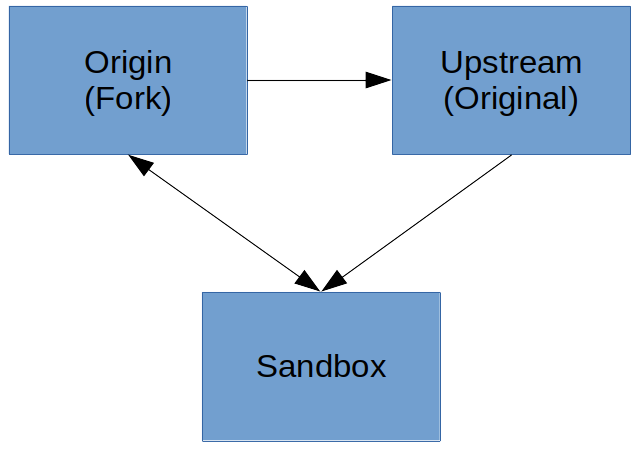
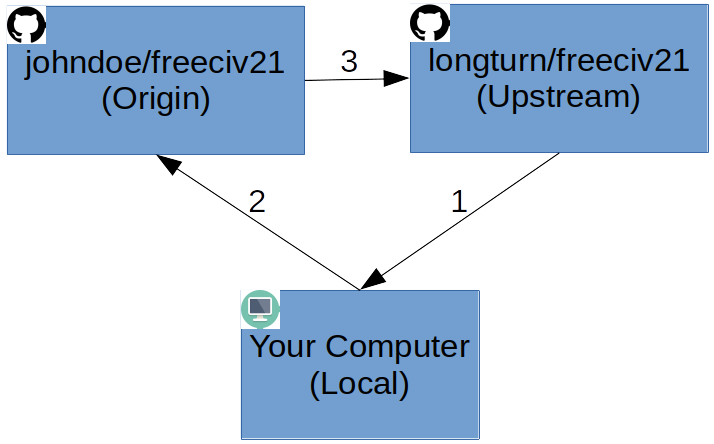
Fixes to docs based on feedback

diff --git a/docs/Contributing/pull-request.rst b/docs/Contributing/pull-request.rst
@@ -5,7 +5,7 @@ A Pull Request (PR), also commonly known as a Merge Request, is a mechanism to "
 into another one and merge the change into the source repository.
 
 Before we go much further, let's take a few minutes to describe what happened when you :doc:`dev-env` and to
-define a few terms that will help with futher instructions. Starting with a diagram of the setup of the three
+define a few terms that will help with further instructions. Starting with a diagram of the setup of the three
 locations where code resides:
 
 .. image:: ../_static/images/github_repos.png
@@ -16,42 +16,39 @@ locations where code resides:
 As part of the :doc:`../General/install` process, one of the programs installed is :file:`git`. This program
 is used to interact with the varying places that code can reside. The :file:`git` program has a relatively
 standard way of referring to things that are in the diagram. If you have not worked with :file:`git` much,
-you can read the `documentation <https://git-scm.com/docs>`_.
+it is highly recommended you read the first three chapters of the
+`Pro Git Book <https://git-scm.com/book/en/v2>`_ before continuing.
 
 * :strong:`Upstream`: This refers to the source (original) repository. For us this is the Longturn Freeciv21
   or Games repositories.
 * :strong:`Origin`: This refers to the fork you made in your own personal GitHub account.
-* :strong:`Sandbox`: This isn't a :file:`git` term per se, but is a well understood industry standard way of
-  referring to the copy of code on a person's local computer. This is where the changes are made and eventually
+* :strong:`Local`: This isn't a :file:`git` term per se, but is a well understood industry standard way of
+  referring to the copy of code on a person's computer. This is where the changes are made and eventually
   make it back up to origin and over to upstream via a Pull Request.
 
-The arrows represent the path that updates (e.g. changes) of files and code occurs.
+The arrows represent the path that updates (e.g. changes) of files occurs.
 
-* File updates from `Upstream` only come "down" to the local `Sandbox` unidirectionally.
-* File updates from `Origin` to `Upstream` only happen from `Origin` to `Upstream`, unidirectionally.
-* File updates from the local `Sandbox` to `Origin` can occur bi-directionally. However, the most common way is
-  "up" from the `Sandbox` to `Origin`.
+1. File updates from `Upstream` are downloaded (pulled) to `Local`.
+2. After changes are made, file updates from `Local` are uploaded (pushed) to `Origin`.
+3. File updates from `Origin` are transferred to `Upstream` laterally via a Pull Request.
 
-What typically happens in a development cycle looks something like this: Upstream -> Sandbox -> Origin ->
-Upstream. With this in mind, submitting a Pull Request generally entails these steps:
+With this in mind, submitting a Pull Request generally entails these steps:
 
-#. Update the Sandbox with the lastest updates/changes from Upstream.
-#. Ensure Origin is also up to date with Upstream.
-#. Create a local branch from Upstream.
-#. Edit files as needed in the Sandbox and local branch.
+#. Update Local with the lastest from Upstream.
+#. Create a branch from Upstream.
+#. Edit files as needed in Local.
 #. Push the changes in a commit to Origin.
 #. Requesting a Pull Request from Origin to Upstream.
 
 
-1. Update The Sandbox With The Lastest Updates/Changes From Upstream
-====================================================================
+1. Update Local With The Lastest Updates From Upstream
+======================================================
 
-Assuming you are in the local Sandbox, issue these commands to get the latest code from Upstream:
+Assuming you are in the appropriate Local directory, issue these commands to get the latest code from Upstream:
 
 .. code-block:: rst
 
   ~/GitHub/freeciv21$ git checkout master
-  ~/GitHub/freeciv21$ git fetch upstream master
   ~/GitHub/freeciv21$ git pull upstream master --ff-only
 
 
@@ -61,22 +58,8 @@ Assuming you are in the local Sandbox, issue these commands to get the latest co
   do this once. After the config is set, you can drop the :code:`--ff-only` option from the last command above.
 
 
-2. Ensure Origin Is Also Up To Date With Upstream
-=================================================
-
-Assuming you are in the local Sandbox and have recently completed the 3 commands above, issue this command to
-get the latest code from Upstream pushed to your personal fork (Origin):
-
-.. code-block:: rst
-
-  ~/GitHub/freeciv21$ git push origin
-
-
-You will be prompted to enter your SSH passkey at this time.
-
-
-3. Create A Local Branch From Upstream
-======================================
+2. Create A Branch From Upstream
+================================
 
 Now that things are all up to date with the lastest code, let's create a branch to do your work in.
 
@@ -90,22 +73,22 @@ For example, it could be as easy as :code:`issue_123`, meansing that this branch
 Issue 123 in the Freeciv21 Issues list.
 
 .. attention::
-  Never make changes in the master branch, always make changes in a different branch. This makes it much
-  easier to evaluate changes as part of the Pull Request evaluation process and keeps things much cleaner
-  from a repository management perspective. This follows best practices and keeps the master branch from
-  being accidentially messed up.
+  It is recommended to never make changes in the master branch. Best practice is to make changes in a
+  different branch. This makes it much easier to evaluate changes as part of the Pull Request evaluation
+  process and keeps things much cleaner from a repository management perspective.
 
 
-4. Edit Files As Needed In The Sandbox And Local Branch
-=======================================================
+3. Edit Files As Needed In Local
+================================
 
-This step is as simple as it sounds. Edit the files in the local sandbox as needed to complete the work you
+This step is as simple as it sounds. Edit the files in the Local area as needed to complete the work you
 want to work on. Depending on what you are doing, there is a high likelyhood that you will want to compile
 the code to test your work. Here are some quick steps that you can use to run through quick compiles of code
 and/or documentation updates.
 
 .. code-block:: rst
 
+  ~/GitHub/freeciv21$ clang-format
   ~/GitHub/freeciv21$ rm -Rf build
   ~/GitHub/freeciv21$ cmake . -B build -G Ninja -DCMAKE_INSTALL_PREFIX=$PWD/build/install
   ~/GitHub/freeciv21$ cmake --build build
@@ -113,11 +96,14 @@ and/or documentation updates.
   ~/GitHub/freeciv21$ cmake --build build --target docs
 
 
-The first command cleans out the :file:`build` directory to start fresh. The second command runs a configure
+The first command, :file:`clang-format`, runs a pre-processor to format any code changes to support the
+Longturn community's code standards.
+
+The second command cleans out the :file:`build` directory to start fresh. The third command runs a configure
 process and then sets things up to do the install portion inside the same :file:`build` directory, keeping
 work in progress all in one place.
 
-The third and forth commands compile and installs the code. The last command is used to generate the
+The forth and fifth command compile and installs the code. The last command is used to generate the
 documentation that you are reading right now. You can open :file:`./build/docs/index.html` to see a locally
 generated copy of the documentation prior to pushing a change up.
 
@@ -134,12 +120,12 @@ there isn't any compiling going on. The Ruleset or Tileset editor is editing fil
 Longturn Games repository is effectively a repository of Rulesets.
 
 
-5. Push The Changes In A Commit To Origin
+4. Push The Changes In A Commit To Origin
 =========================================
 
 Now the moment arrives, you have a fully completed set of changes you want to share! The next step is to
 evaluate what all has changed and build a commit. A commit is an organized set of changes all bundled up
-together. There are lots of ways or organize commits, for this set of instructions we are going to assume
+together. There are lots of ways to organize commits, for this set of instructions we are going to assume
 that all of your changes are going to be bundled into one commit. If you want to learn how to build more than
 one commit into a Pull Request then you can read about `git add <https://git-scm.com/docs/git-add>`_ and
 `git commit <https://git-scm.com/docs/git-commit>`_. Most of the work is handled with :file:`git add`.
@@ -163,10 +149,10 @@ Once everything looks good from a :file:`git status` perspective, then issue the
 command, :file:`git commit` will open a text editor (in Debian based systems this is often Nano). Put a message
 at the bottom below all of the hashes ( # ) and then save.
 
-At this point you have a commit of changes that you need to push to your fork (e.g. Origin).
+At this point you have a commit of changes that you need to push to Origin.
 
 
-6. Requesting A Pull Request From Origin To Upstream
+5. Requesting A Pull Request From Origin To Upstream
 ====================================================
 
 This is the last major step in the process. To push the commit to your fork, issue this command:

diff --git a/docs/Contributing/eval-pull-request.rst b/docs/Contributing/eval-pull-request.rst
@@ -8,19 +8,11 @@ master branch.
 
 This page assumes the user knows how to use :file:`git`, compile Freeciv21 and use GitHub.
 
-:strong:`Update Local Sandbox`
-
-.. code-block:: rst
-
-  $ git checkout master
-  $ git fetch upstream master
-  $ git pull upstream master --ff-only
-
-
 :strong:`Create A Testing Branch`
 
 .. code-block:: rst
 
+  $ git fetch upstream master
   $ git checkout -b testing/pr_[pr-number] upstream/master
 
 
@@ -53,7 +45,6 @@ This page assumes the user knows how to use :file:`git`, compile Freeciv21 and u
   $ cmake --build build
   $ cmake --build build --target install
   $ cmake --build build --target package      # MSys2 Only
-  $ cmake --build build --target docs
 
 
 :strong:`Read The Issue's Notes`
@@ -76,4 +67,3 @@ probably have to re-download the diff and run another test.
 
   $ git checkout master
   $ git branch -d testing/pr_[pr-number]
-

diff --git a/docs/Contributing/dev-env.rst b/docs/Contributing/dev-env.rst
@@ -23,7 +23,7 @@ All platforms can use `KDevelop <https://www.kdevelop.org/download>`_. However, 
 * On MacOS, KDevelop is still considered experimental.
 
 For the best results, especially if you are editing game code and not just Longturn game rulesets or
-documentation, you will want :strong:`Linux` to be your worksation OS. Many of the current developers use a
+documentation, you will want :strong:`Linux` to be your workstation OS. Many of the current developers use a
 Debain variant such as Ubuntu. Instructions for getting all of the tools needed for Debian Linux can be found
 in :doc:`../General/install`. Refer to the section titled `Debian Linux Notes`. Don't follow the last few
 steps to clone the repository (e.g. the :code:`git clone` command), that will happen in a bit.
